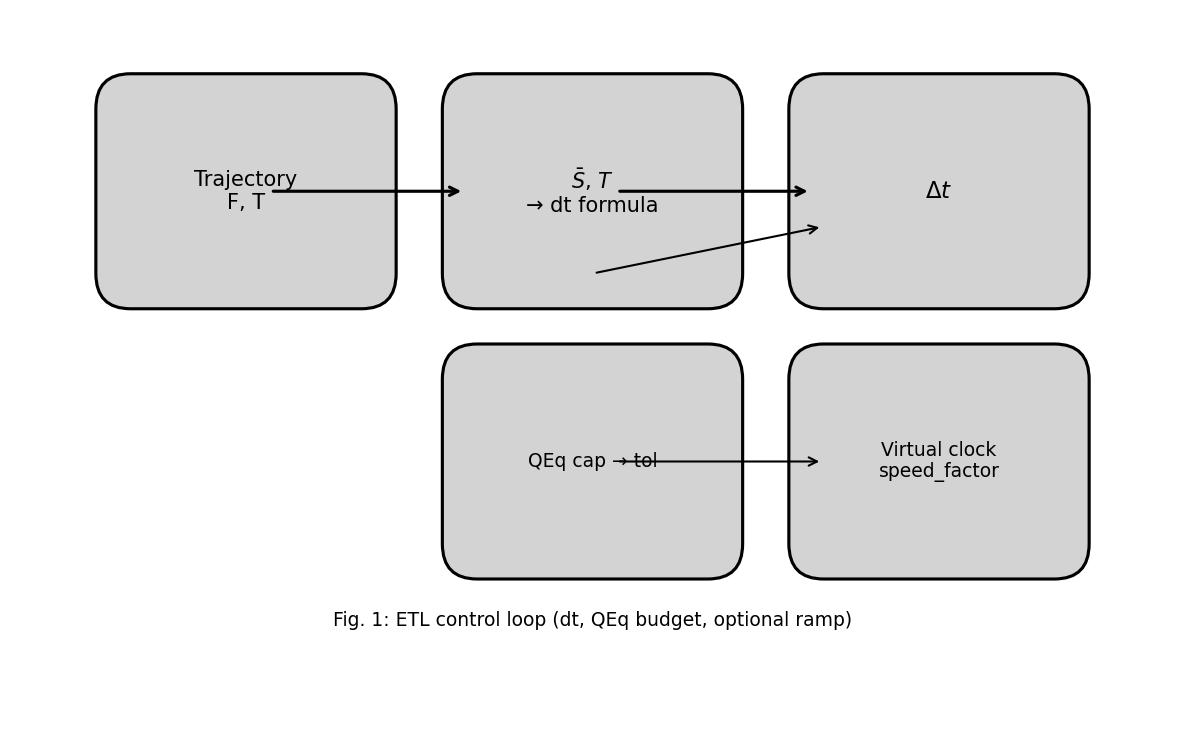
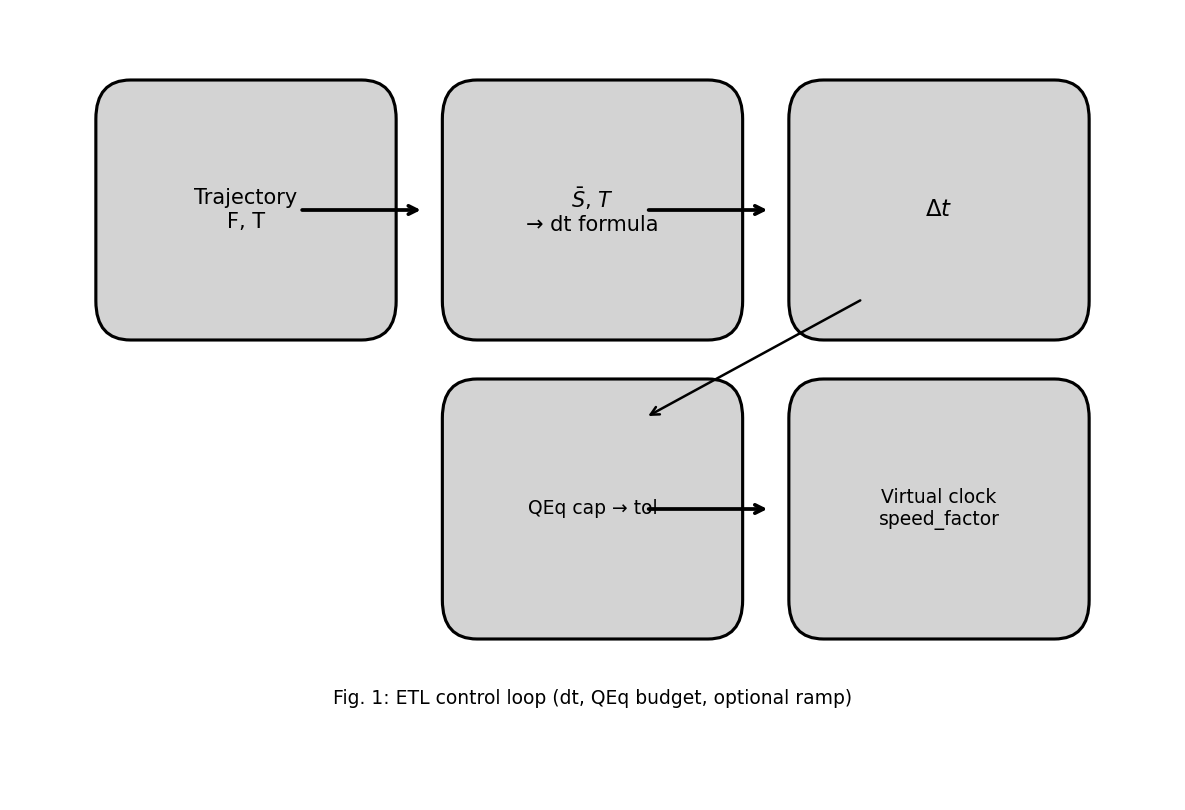
Fig 1: shorter horizontal arrows, expanded caption
- Shorten horizontal arrows (2.45→3.55, 5.45→6.55) so they sit in the gap and don't overlap box text
- Expand Figure 1 caption in README and report: explain top row (F,T→S̄,T→dt formula→Δt), bottom row (QEq cap→tol, virtual clock), Δt→cap coupling, and full loop

Made-with: Cursor

diff --git a/docs/scripts/generate_figures.py b/docs/scripts/generate_figures.py
@@ -87,30 +87,37 @@ def fig01_control_loop():
     import matplotlib.pyplot as plt
     from matplotlib.patches import FancyBboxPatch
 
-    fig, ax = plt.subplots(1, 1, figsize=(8, 5))
+    fig, ax = plt.subplots(1, 1, figsize=(8, 5.5))
     ax.set_xlim(0, 10)
     ax.set_ylim(0, 6)
     ax.axis("off")
 
     style = dict(boxstyle="round,pad=0.3", facecolor="lightgray", edgecolor="black", linewidth=1.5)
-    # Boxes first (so text appears on top)
-    ax.add_patch(FancyBboxPatch((1, 3.8), 2, 1.4, **style))
-    ax.add_patch(FancyBboxPatch((4, 3.8), 2, 1.4, **style))
-    ax.add_patch(FancyBboxPatch((7, 3.8), 2, 1.4, **style))
-    ax.add_patch(FancyBboxPatch((4, 1.5), 2, 1.4, **style))
-    ax.add_patch(FancyBboxPatch((7, 1.5), 2, 1.4, **style))
-    # Labels
+    # Boxes: (x, y) = lower-left, width, height. Top row y=3.8, bottom row y=1.5
+    ax.add_patch(FancyBboxPatch((1, 3.8), 2, 1.4, **style))   # Trajectory
+    ax.add_patch(FancyBboxPatch((4, 3.8), 2, 1.4, **style))   # S̄,T → dt formula
+    ax.add_patch(FancyBboxPatch((7, 3.8), 2, 1.4, **style))   # Δt
+    ax.add_patch(FancyBboxPatch((4, 1.5), 2, 1.4, **style))   # QEq cap → tol
+    ax.add_patch(FancyBboxPatch((7, 1.5), 2, 1.4, **style))   # Virtual clock
+    # Labels (centers: x=2,5,8 for cols; y=4.5 top, 2.2 bottom)
     ax.text(2, 4.5, "Trajectory\nF, T", ha="center", va="center", fontsize=10)
     ax.text(5, 4.5, r"$\bar{S}$, $T$" + "\n→ dt formula", ha="center", va="center", fontsize=10)
     ax.text(8, 4.5, r"$\Delta t$", ha="center", va="center", fontsize=11)
     ax.text(5, 2.2, "QEq cap → tol", ha="center", va="center", fontsize=9)
     ax.text(8, 2.2, "Virtual clock\nspeed_factor", ha="center", va="center", fontsize=9)
-    # Arrows
-    ax.annotate("", xy=(3.9, 4.5), xytext=(2.2, 4.5), arrowprops=dict(arrowstyle="->", lw=1.5))
-    ax.annotate("", xy=(6.9, 4.5), xytext=(5.2, 4.5), arrowprops=dict(arrowstyle="->", lw=1.5))
-    ax.annotate("", xy=(7, 4.2), xytext=(5, 3.8), arrowprops=dict(arrowstyle="->", lw=1))
-    ax.annotate("", xy=(7, 2.2), xytext=(5.2, 2.2), arrowprops=dict(arrowstyle="->", lw=1))
-    ax.text(5, 0.8, "Fig. 1: ETL control loop (dt, QEq budget, optional ramp)", fontsize=9, ha="center")
+    # Arrows: short segments in the gap between boxes so they don't overlap text
+    # Top row: Trajectory → formula → Δt
+    ax.annotate("", xy=(3.55, 4.5), xytext=(2.45, 4.5),
+                arrowprops=dict(arrowstyle="->", lw=1.8, color="black"))
+    ax.annotate("", xy=(6.55, 4.5), xytext=(5.45, 4.5),
+                arrowprops=dict(arrowstyle="->", lw=1.8, color="black"))
+    # Bottom row: QEq cap → Virtual clock
+    ax.annotate("", xy=(6.55, 2.2), xytext=(5.45, 2.2),
+                arrowprops=dict(arrowstyle="->", lw=1.8, color="black"))
+    # Δt feeds into QEq cap (cap ∝ 1/Δt²): straight diagonal from Δt bottom to QEq top
+    ax.annotate("", xy=(5.45, 2.9), xytext=(7.35, 3.82),
+                arrowprops=dict(arrowstyle="->", lw=1.2, color="black"))
+    ax.text(5, 0.7, "Fig. 1: ETL control loop (dt, QEq budget, optional ramp)", fontsize=9, ha="center")
     fig.tight_layout()
     fig.savefig(os.path.join(FIGURES_DIR, "fig01_control_loop.png"), dpi=150, bbox_inches="tight")
     plt.close()

diff --git a/README.md b/README.md
@@ -164,7 +164,7 @@ The overall ETL control loop—trajectory and forces feeding S̄ and *T* into th
 
 ![Fig. 1: ETL control loop (dt, QEq budget, optional ramp).](docs/figures/fig01_control_loop.png)
 
-*Figure 1. ETL control loop. Trajectory (F, T) → S̄ and T → dt formula → Δt; QEq cap → tol; optional virtual clock (speed_factor) → early exit.*
+*Figure 1. ETL control loop. **Top row:** The trajectory supplies forces (F) and target temperature (T). From these we compute the force power S̄ and use S̄ and T in the dt formula to obtain the integration timestep Δt. **Bottom row:** The QEq tolerance budget (cap) sets the charge-equilibration tolerance (*tol*); the cap depends on Δt (cap ∝ 1/Δt²), so tolerance is coupled to the timestep. The virtual clock advances by speed_factor and triggers early exit when the schedule is complete. Together, adaptive dt, adaptive QEq, and the optional ramp form the full ETL control loop.*
 
 ---
 

diff --git a/docs/ETL_SiO2_Report.md b/docs/ETL_SiO2_Report.md
@@ -158,7 +158,7 @@ The overall ETL control loop—trajectory and forces feeding S̄ and *T* into th
 
 ![Fig. 1: ETL control loop](figures/fig01_control_loop.png)
 
-*Figure 1. ETL control loop. Trajectory (F, T) → S̄ and T → dt formula → Δt; QEq cap → tol; optional virtual clock (speed_factor) → early exit.*
+*Figure 1. ETL control loop. **Top row:** The trajectory supplies forces (F) and target temperature (T). From these we compute the force power S̄ and use S̄ and T in the dt formula to obtain the integration timestep Δt. **Bottom row:** The QEq tolerance budget (cap) sets the charge-equilibration tolerance (*tol*); the cap depends on Δt (cap ∝ 1/Δt²), so tolerance is coupled to the timestep. The virtual clock advances by speed_factor and triggers early exit when the schedule is complete. Together, adaptive dt, adaptive QEq, and the optional ramp form the full ETL control loop.*
 
 ---
 
